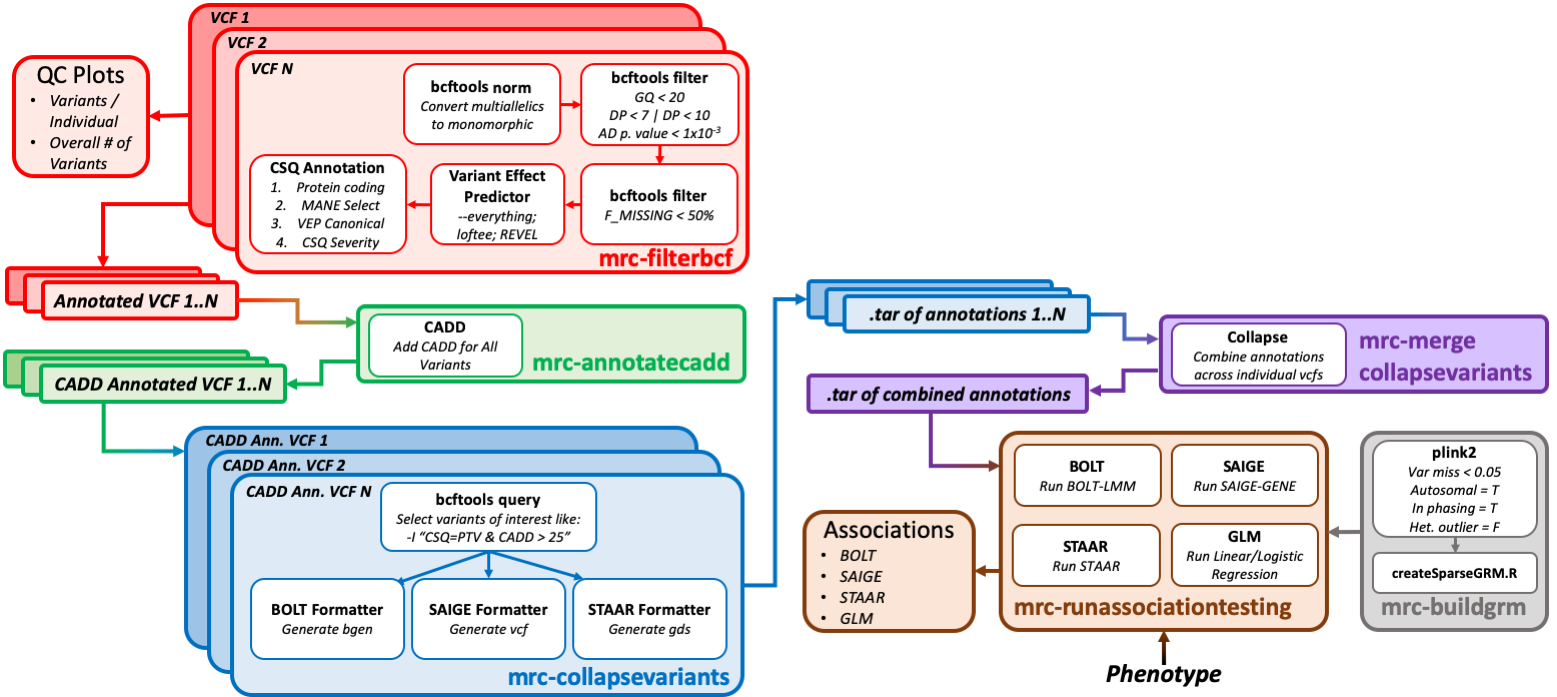
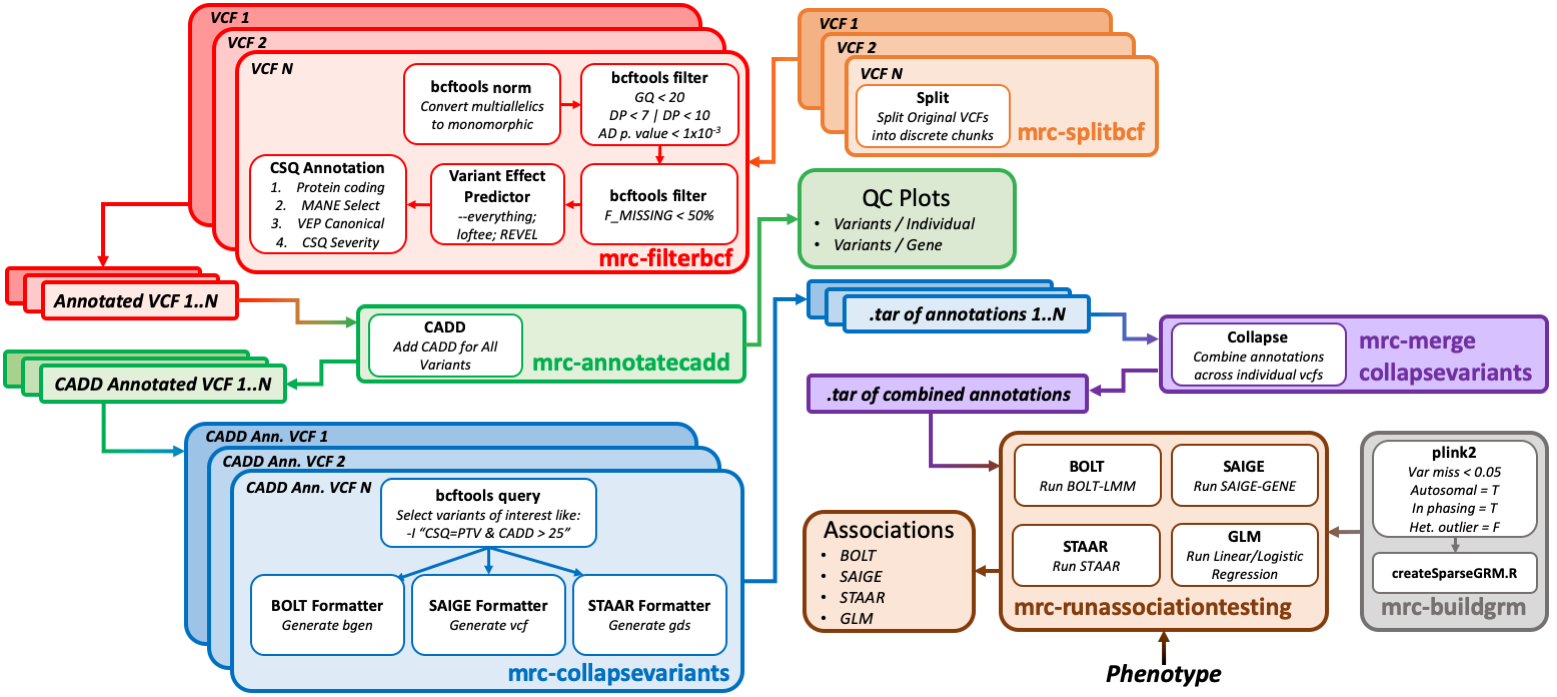
modified README and workflow image

diff --git a/profile/README.md b/profile/README.md
@@ -21,6 +21,10 @@ T.B.D.
         + [Building A Docker Image](#building-a-docker-image)
 - [Workflows](#workflows)
     * [VCF Filtering and Rare Variant Burden Testing](#vcf-filtering-and-rare-variant-burden-testing)
+        + [Provided Output Resources](#provided-output-resources)
+            - [File Coordinate Reference](#file-coordinate-reference)
+            - [Combined VEP Annotations](#combined-vep-annotations)
+            - [Sample Lists](#sample-lists)
 - [Software](#software)
 
 # Relevant DNA Nexus Projects
@@ -184,11 +188,12 @@ variant burden testing analyses.
 ![](https://github.com/mrcepid-rap/.github/blob/main/images/RAPPipeline.png)
 ***Graphical Outline of Workflow***
 
-This workflow is made up of six individual applets. Please see the individual READMEs within these repositories for
+This workflow is made up of seven individual applets. Please see the individual READMEs within these repositories for
 more detailed information on what each step in the workflow does as well as accompanying source code: 
 
 | name | repo URL | brief description |
 | ---- | -------- | ----------------- |
+| mrcepid-bcfsplitter | https://github.com/mrcepid-rap/mrcepid-bcfsplitter | splits bcf files into predetermined chunk sizes |
 | mrcepid-filterbcf | https://github.com/mrcepid-rap/mrcepid-filterbcf | filters vcf/bcf according to predetermined method |
 | mrcepid-annotatecadd | https://github.com/mrcepid-rap/mrcepid-annotatecadd | annotates filtered vcf/bcf with [CADD](https://cadd.gs.washington.edu/) |
 | mrcepid-collapsevariants | https://github.com/mrcepid-rap/mrcepid-collapsevariants | Quantifies variants from a filtered vcf according to a filtering expression |
@@ -196,11 +201,52 @@ more detailed information on what each step in the workflow does as well as acco
 | mrcepid-buildgrms | https://github.com/mrcepid-rap/mrcepid-buildgrms | Calculate genetic relatedness matrices (GRMs) and sample exclusion lists from genetic data |
 | mrcepid-runassociationtesting | https://github.com/mrcepid-rap/mrcepid-runassociationtesting | Run one of four different burden tests |
 
+### Provided Output Resources
+
 There are three primary outputs from this workflow:
 
 1. Filtered and annotated bcf files – generated following running "mrcepid-annotatecadd"
-2. Collapsed Variants for Burden Testing – generated following "mrcepid-mergecollapsevariants"
+   * Stored in the folder `filtered_vcfs/` in `project-G6BJF50JJv8p4PjGB9yy7YQ2`.
+2. Collapsed Variant Masks for Burden Testing – generated following "mrcepid-mergecollapsevariants"
+   * Stored in the folder `collapsed_variants/` in `project-G6BJF50JJv8p4PjGB9yy7YQ2`.
 3. Association Statistics - generated by "mrcepid-runassociationtesting"
+   * Stored in the folder `results/` in `project-G6BJF50JJv8p4PjGB9yy7YQ2` 
+
+This workflow also generates several additional resources, of which some are stored described here. These resources are
+contained in the folder `project_resources/wes_resources/` in `project-G6BJF50JJv8p4PjGB9yy7YQ2`.
+
+#### File Coordinate Reference
+
+As one of the primary outputs of this pipeline, we provide a list of all filtered bcf chunks in the file: 
+
+`coordinates.files.tsv.gz (file-G7YGYPjJJv8kz6QvP41q5KYg)` in `project-G6BJF50JJv8p4PjGB9yy7YQ2`.
+
+This file has the following rows:
+
+1. chrom – chunk chromosome
+2. start - coordinate of the first variant in this chunk
+3. end - coordinate of the last variant in this chunk
+4. chunk_prefix – chunk prefix for all files for this chunk (regex `/ukb23148_c[0-9XY]{1,2}_b\d+_v1_chunk\d/`)
+5. bcf_dxpy – DNA Nexus file hash for the bcf file
+6. bcf_indx_dxpy – DNA Nexus file hash for the bcf index (.csi) file
+7. vep_dxpy – DNA Nexus file hash for the variant VEP annotation file
+8. vep_index_dxpy – DNA Nexus file hash for the variant VEP annotation index (.tbi) file
+
+This file is tab-delimited and tabix-indexed (.tbi) to enable searching for desired file-chunk(s).
+
+#### Combined VEP Annotations
+
+We also provide VEP annotations for every variant in the original bcf files provided by UKBiobank:
+
+`450k_vep.sorted.tsv.gz (file-G71V580JJv8f0x6KKv9gvGg4)` in `project-G6BJF50JJv8p4PjGB9yy7YQ2`.
+
+This file is bgzipped and tabix-indexed (`file-G7j0kKjJJv8zJ00F0G93BGpg`) for easy querying with [tabix](http://www.htslib.org/doc/tabix.html). For the 
+format of this file, please see the [outputs section of mrcepid-annotatecadd](https://github.com/mrcepid-rap/mrcepid-annotatecadd#outputs).
+
+#### Sample Lists
+
+We have provided sample lists of individuals specific to the 50k, 200k, and 450k releases of the UKBB WES data. These 
+files have one individual ID per-line and are named like `samples_<RELEASE>.txt`.
 
 # Software
 
